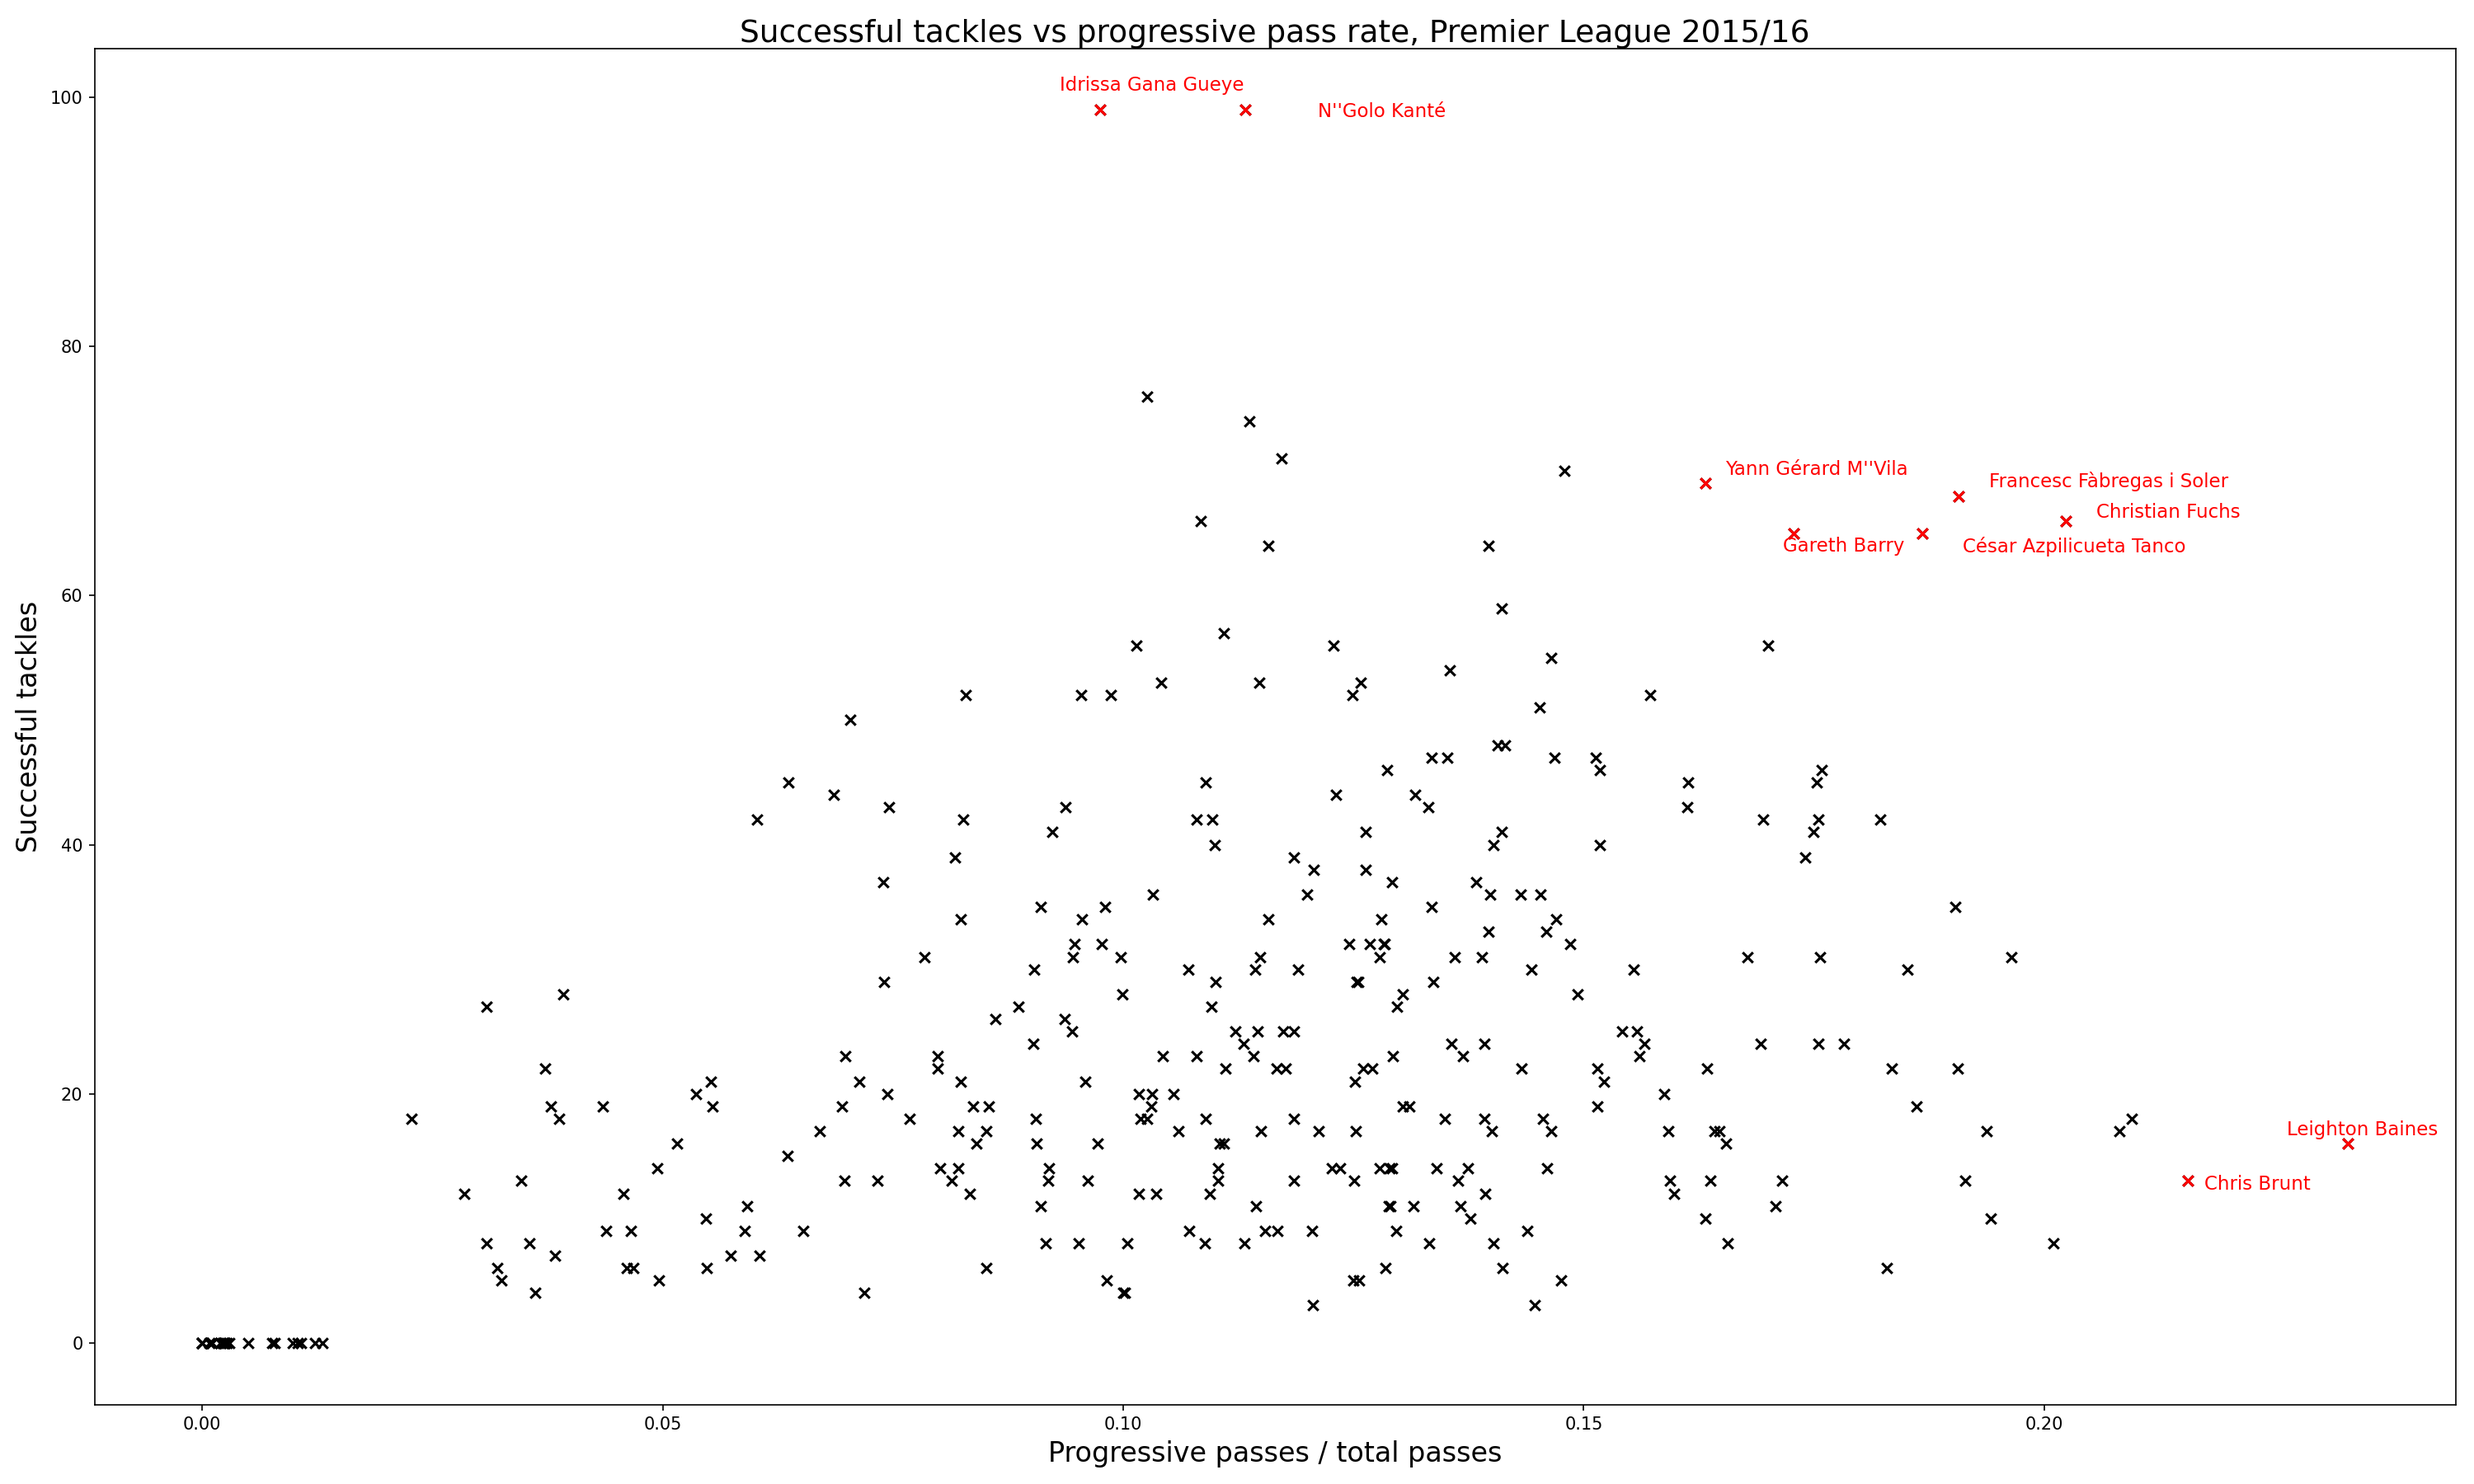
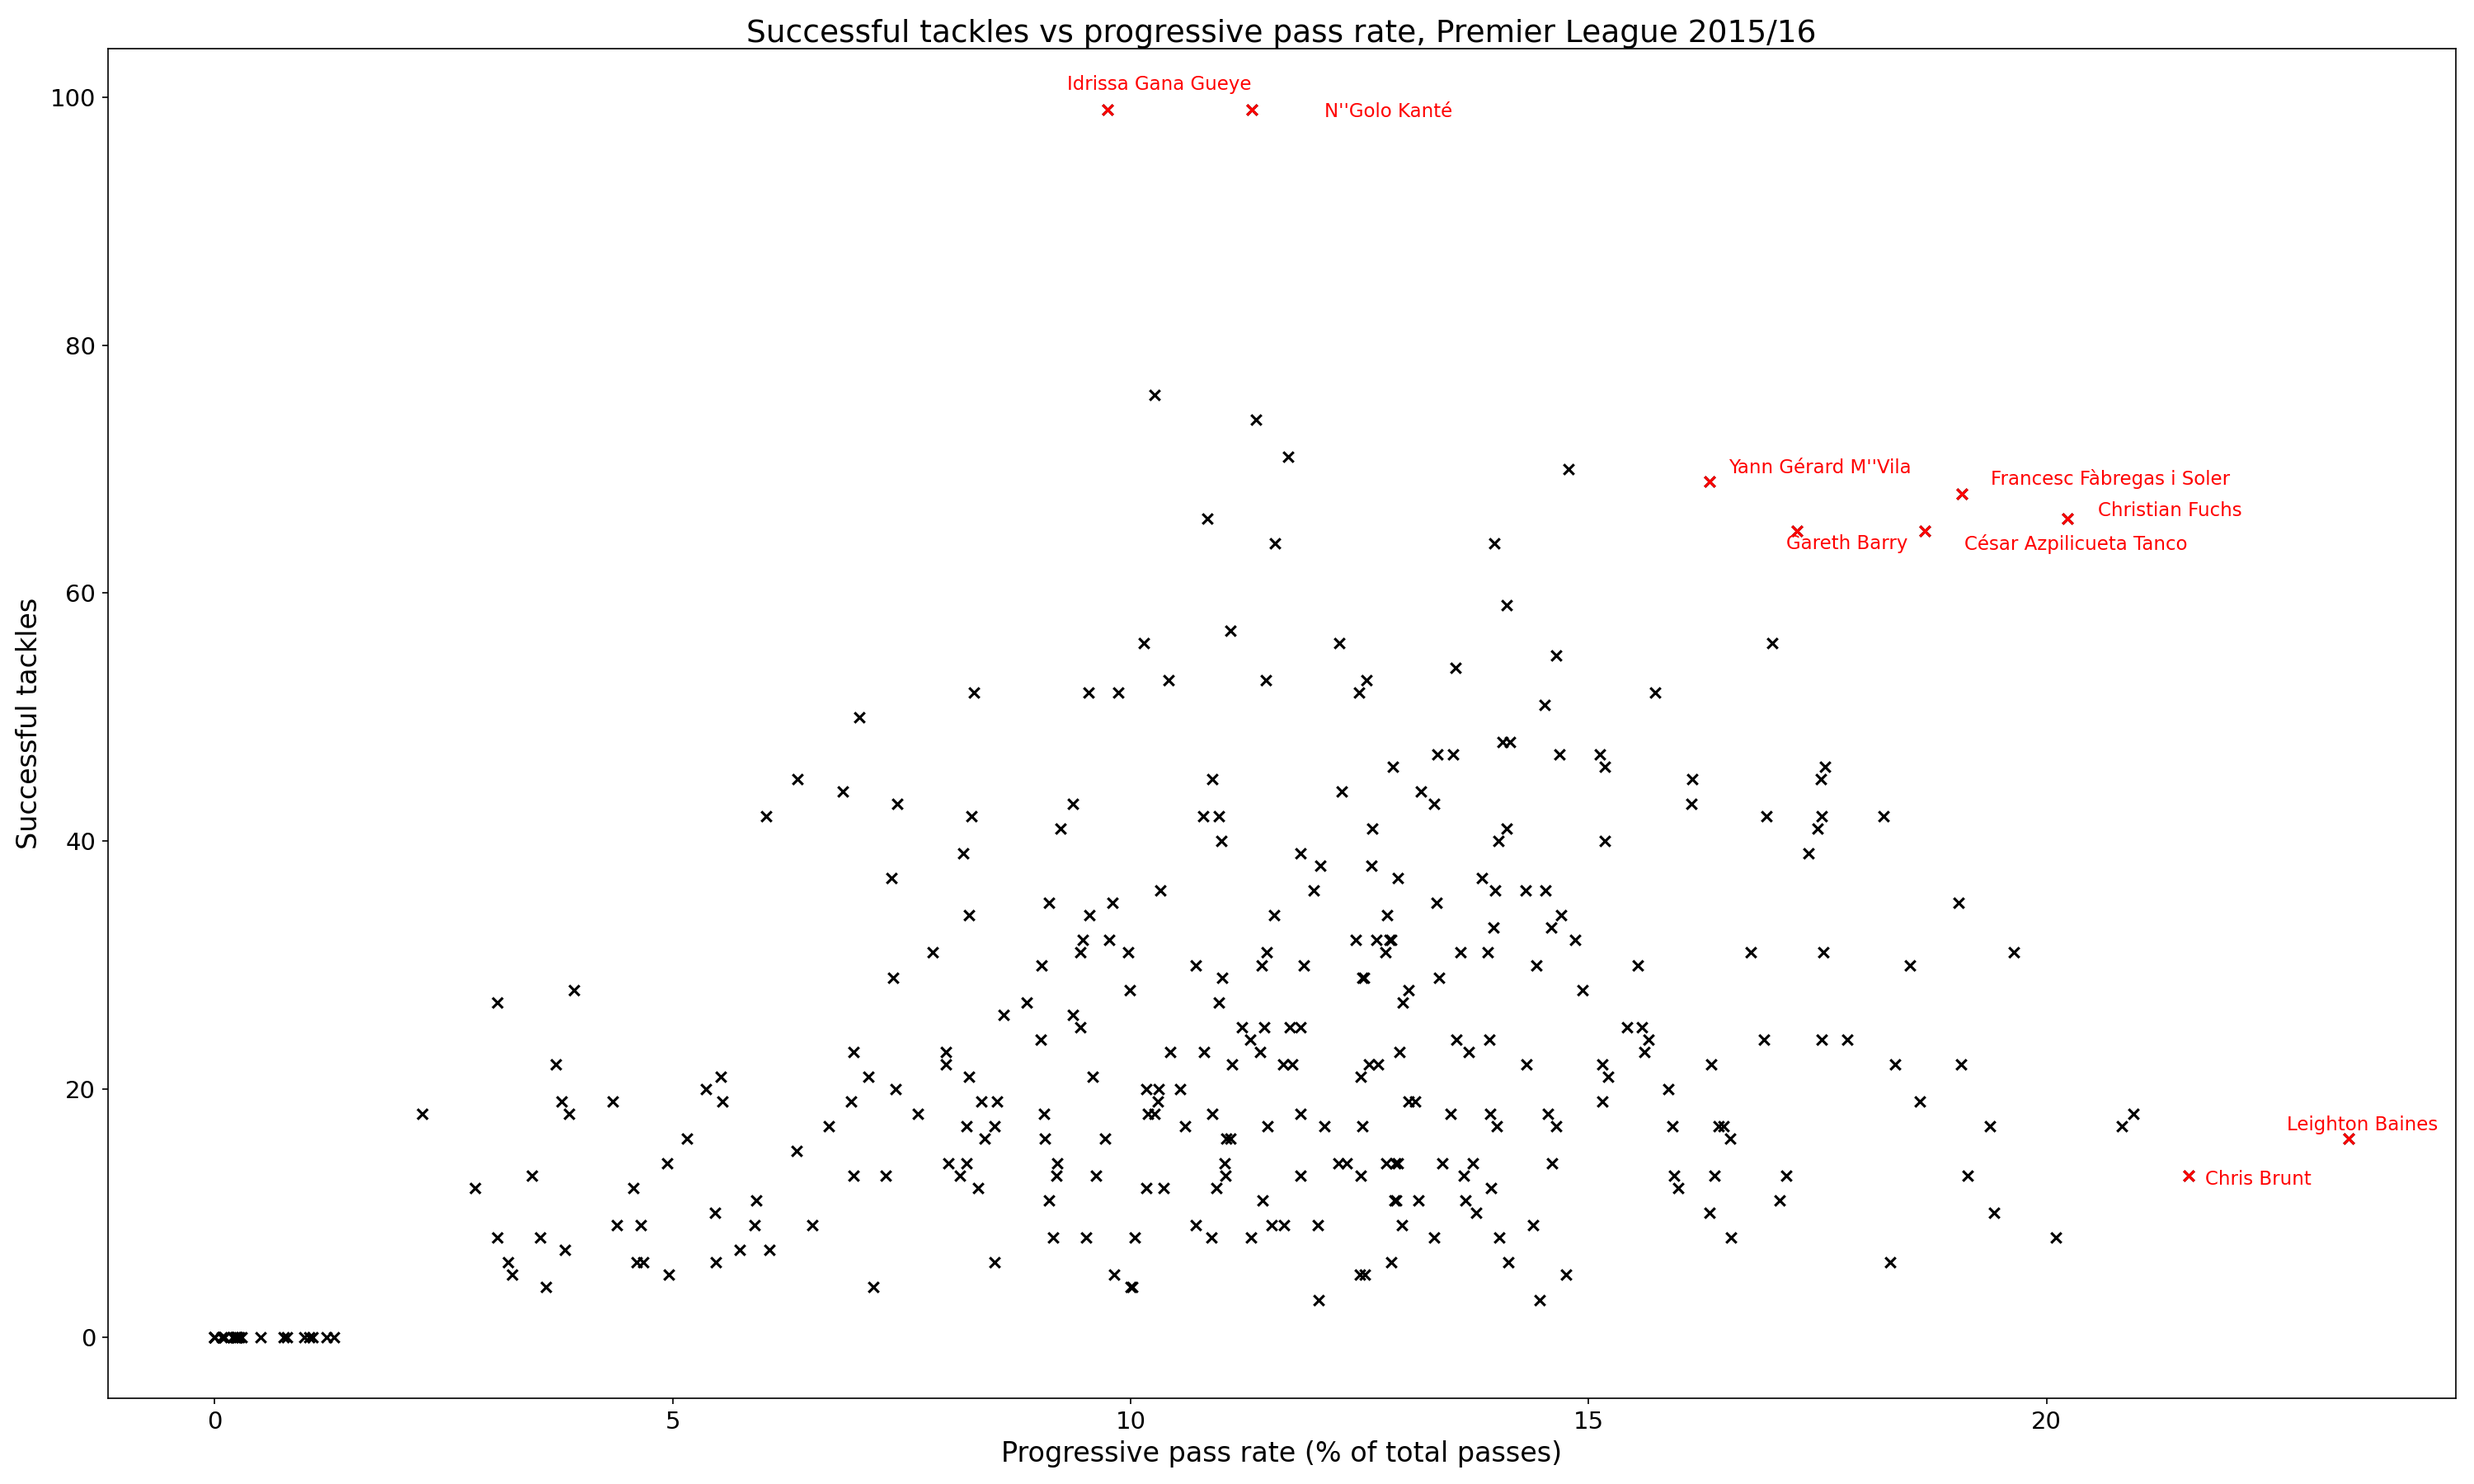
improve graph and add a description in readme

diff --git a/premier_league.py b/premier_league.py
@@ -117,15 +117,15 @@ def plot_graph():
 
     fig, ax = plt.subplots(figsize = (20,12))
 
-    ax.scatter(data['prog_passes']/data['total_passes'], data['successful_tackles'], marker = 'x', c = 'black')
-    ax.scatter(top_players['prog_passes']/top_players['total_passes'], top_players['successful_tackles'], marker = 'x', c = 'red')
-    ax.scatter(top_passers['prog_passes']/top_passers['total_passes'], top_passers['successful_tackles'], marker = 'x', c = 'red')
-    ax.scatter(top_tacklers['prog_passes']/top_tacklers['total_passes'], top_tacklers['successful_tackles'], marker = 'x', c = 'red')
+    ax.scatter(data['prog_passes']/data['total_passes'] * 100, data['successful_tackles'], marker = 'x', c = 'black')
+    ax.scatter(top_players['prog_passes']/top_players['total_passes'] * 100, top_players['successful_tackles'], marker = 'x', c = 'red')
+    ax.scatter(top_passers['prog_passes']/top_passers['total_passes'] * 100, top_passers['successful_tackles'], marker = 'x', c = 'red')
+    ax.scatter(top_tacklers['prog_passes']/top_tacklers['total_passes'] * 100, top_tacklers['successful_tackles'], marker = 'x', c = 'red')
     
     texts = []
     for index, row in top_players.iterrows():
         texts.append(ax.text(
-            x=row['prog_passes']/row['total_passes'],
+            x=row['prog_passes']/row['total_passes'] * 100,
             y=row['successful_tackles'],
             s=row['player'],
             fontsize=11,
@@ -134,7 +134,7 @@ def plot_graph():
         ))
     for index, row in top_passers.iterrows():
         texts.append(ax.text(
-            x=row['prog_passes']/row['total_passes'],
+            x=row['prog_passes']/row['total_passes'] * 100,
             y=row['successful_tackles'],
             s=row['player'],
             fontsize=11,
@@ -143,7 +143,7 @@ def plot_graph():
         ))
     for index, row in top_tacklers.iterrows():
         texts.append(ax.text(
-            x=row['prog_passes']/row['total_passes'],
+            x=row['prog_passes']/row['total_passes'] * 100,
             y=row['successful_tackles'],
             s=row['player'],
             fontsize=11,
@@ -155,8 +155,10 @@ def plot_graph():
 
     title = f"Successful tackles vs progressive pass rate, Premier League 2015/16"
     ax.set_title(title, fontsize=18, pad=3)
-    ax.set_xlabel("Progressive passes / total passes", fontsize = 16)
+    ax.set_xlabel("Progressive pass rate (% of total passes)", fontsize = 16)
     ax.set_ylabel("Successful tackles", fontsize = 16)
+    plt.xticks(fontsize=14)
+    plt.yticks(fontsize=14)
     fig.tight_layout()
     fig.savefig('outputs/passes_tackles.png', dpi=150)
 

diff --git a/README.md b/README.md
@@ -2,4 +2,5 @@
 Using the statsbomb data to make a few graphs.
 
 ## Premier League 2015/16 season
-![Plot of progressive passes vs tackles (red: players with high attacking and defensive contribution)](assets/passes_tackles.png)
+![Plot of successful tackle vs progressive pass rate)](assets/passes_tackles.png)
+<p align="center"><em>Successful tackles vs progressive pass rate (%) . Players with high attacking and defensive contributions are shown in red. Progressive passes are defined as passes that move the ball at least 10 metres closer to the opponent's goal. Only players with at least 400 passes in the season are considered.</em></p>
